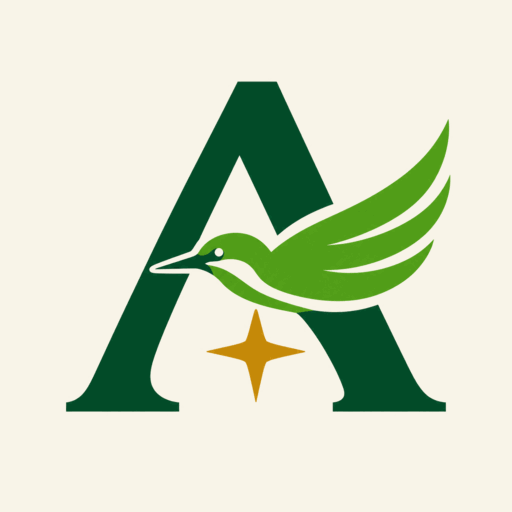
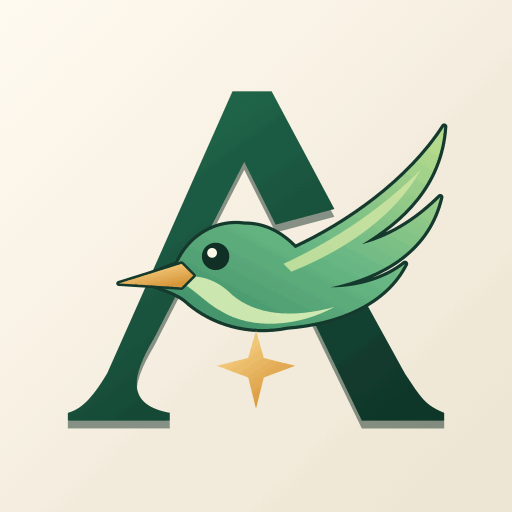
Refine the Aviandra bird mark and stack monthly observation methods

Changed region(s): [[0.125, 0.1562, 0.9062, 0.8438], [0.625, 0.7188, 0.875, 0.8438], [0.625, 0.6562, 0.6562, 0.7188]]

diff --git a/src/features/home/view.js b/src/features/home/view.js
@@ -24,9 +24,14 @@ import { windMarkup, weatherPlace, weatherPlaceMarkup, noLocationText } from './
 import { resolveLocation, setManualLocation } from '../../services/location.js';
 import { openPinPicker } from '../sightings/pinPicker.js';
 import { loadPlaces } from '../../data/places.js';
-import { speciesTally } from '../sightings/evidence.js';
+import { OBSERVATION_METHODS, speciesTally } from '../sightings/evidence.js';
 
 // ── Constanten ─────────────────────────────────────────────
+const MONTHLY_METHODS = [
+  ['seen', 'Alleen gezien'],
+  ['heard', 'Alleen gehoord'],
+  ['both', OBSERVATION_METHODS.both],
+];
 // GPS-01: geen standaardstad meer (was Amsterdam). Weer en zon gebruiken één gedeelde locatiebepaling.
 const WEATHER_TTL_MS = 15 * 60 * 1000;     // zelfde ± 1 km-cel binnen 15 min: geen nieuw weerverzoek
 const RELOCATE_AFTER_MS = 10 * 60 * 1000;  // na hervatten van de app: locatie en weer opnieuw controleren
@@ -710,12 +715,14 @@ async function loadMonthlyChart(el, ctx) {
 
     // Bouw bucket: laatste 12 maanden
     const now    = new Date();
-    const months = [];
+    const monthsByKey = new Map();
     for (let i = 11; i >= 0; i--) {
       const d = new Date(now.getFullYear(), now.getMonth() - i, 1);
-      months.push({
-        key:   `${d.getFullYear()}-${String(d.getMonth() + 1).padStart(2, '0')}`,
+      const key = `${d.getFullYear()}-${String(d.getMonth() + 1).padStart(2, '0')}`;
+      monthsByKey.set(key, {
         label: d.toLocaleDateString('nl-NL', { month: 'short' }),
+        name: d.toLocaleDateString('nl-NL', { month: 'long', year: 'numeric' }),
+        methods: { seen: 0, heard: 0, both: 0, unrecorded: 0 },
         count: 0,
       });
     }
@@ -723,10 +730,14 @@ async function loadMonthlyChart(el, ctx) {
     for (const s of sightings) {
       if (!s.date) continue;
       const key = s.date.slice(0, 7); // "YYYY-MM"
-      const bucket = months.find(m => m.key === key);
-      if (bucket) bucket.count++;
+      const bucket = monthsByKey.get(key);
+      if (!bucket) continue;
+      const method = Object.hasOwn(OBSERVATION_METHODS, s.observationMethod) ? s.observationMethod : 'unrecorded';
+      bucket.methods[method]++;
+      bucket.count++;
     }
 
+    const months = [...monthsByKey.values()];
     const maxCount = Math.max(...months.map(m => m.count));
 
     // Lege staat: geen sightings überhaupt, of alle buiten het 12-maands venster
@@ -737,6 +748,10 @@ async function loadMonthlyChart(el, ctx) {
       if (loader) loader.outerHTML = `<div class="chart-empty">${msg}</div>`;
       return;
     }
+
+    const methods = months.some(month => month.methods.unrecorded)
+      ? [...MONTHLY_METHODS, ['unrecorded', 'Niet vastgelegd']]
+      : MONTHLY_METHODS;
 
     // SVG-afmetingen — PAD_T = 14 geeft ruimte voor count-labels boven hoogste balk
     const W = 320, H = 130, PAD_L = 26, PAD_B = 20, PAD_T = 14, PAD_R = 8;
@@ -762,13 +777,25 @@ async function loadMonthlyChart(el, ctx) {
 
     const barsSvg = months.map((m, i) => {
       const x      = PAD_L + i * barW;
+      const barX   = x + barGap / 2;
       const barH   = m.count === 0 ? 2 : Math.max(3, Math.round((m.count / maxCount) * chartH));
       const y      = PAD_T + chartH - barH;
       const isLast = i === months.length - 1;
       const labelX = x + barW / 2;
+      const block = `x="${barX}" y="${y}" width="${barNet}" height="${barH}" rx="2"`;
+      let bottom = PAD_T + chartH;
+      const segments = methods.filter(([method]) => m.methods[method]).map(([method]) => {
+        const height = barH * m.methods[method] / m.count;
+        bottom -= height;
+        return `<rect x="${barX}" y="${bottom}" width="${barNet}" height="${height}"
+                      class="chart-bar chart-method--${method}"/>`;
+      }).join('');
+      const label = methods.map(([method, title]) => `${title}: ${m.methods[method]}`).join(' · ');
       return `
-        <rect x="${x + barGap / 2}" y="${y}" width="${barNet}" height="${barH}"
-              rx="2" class="chart-bar${m.count === 0 ? ' chart-bar--zero' : ''}"/>
+        ${m.count
+          ? `<clipPath id="home-month-bar-${i}"><rect ${block}/></clipPath>
+             <g clip-path="url(#home-month-bar-${i})"><title>${m.name} · ${label}</title>${segments}</g>`
+          : `<rect ${block} class="chart-bar--zero"/>`}
         ${(i % 2 === 0 || isLast) ? `<text x="${labelX}" y="${H - 4}" class="chart-axis-x">${m.label}</text>` : ''}
         ${m.count > 0 ? `<text x="${labelX}" y="${y - 3}" class="chart-value">${m.count}</text>` : ''}
       `;
@@ -784,8 +811,22 @@ async function loadMonthlyChart(el, ctx) {
       </svg>
     `;
 
+    const legend = `<ul class="chart-key" aria-label="Waarnemingswijzen">${methods.map(([method, label]) =>
+      `<li><span class="chart-key__swatch chart-method--${method}" aria-hidden="true"></span>${label}</li>`
+    ).join('')}</ul>`;
+    const counts = `<details class="chart-counts">
+      <summary>Bekijk aantallen per maand</summary>
+      <table aria-label="Aantallen per waarnemingswijze en maand">
+        <thead><tr><th scope="col">Maand</th>${methods.map(([, label]) =>
+          `<th scope="col">${label}</th>`).join('')}</tr></thead>
+        <tbody>${[...months].reverse().map(month =>
+          `<tr><th scope="row">${month.name}</th>${methods.map(([method]) =>
+            `<td>${month.methods[method]}</td>`).join('')}</tr>`).join('')}</tbody>
+      </table>
+    </details>`;
+
     if (ctx.destroyed) return;
-    if (loader) loader.outerHTML = `<div class="chart-wrap">${svg}</div>`;
+    if (loader) loader.outerHTML = `<div class="chart-wrap">${svg}${legend}${counts}</div>`;
 
   } catch (_) {
     if (ctx.destroyed) return;

diff --git a/styles/dashboard.css b/styles/dashboard.css
@@ -461,14 +461,69 @@
 }
 
 .chart-bar {
-  fill: var(--brand-light);
-  opacity: .85;
-  transition: opacity .15s;
+  fill: currentColor;
 }
+
+.chart-method--seen { color: #51d7a2; }
+.chart-method--heard { color: #8cc6ff; }
+.chart-method--both { color: #f3c777; }
+.chart-method--unrecorded { color: #b7bfb7; }
 
 .chart-bar--zero {
   fill: var(--muted);
   opacity: .25;
+}
+
+.chart-key {
+  display: flex;
+  flex-wrap: wrap;
+  gap: 6px 14px;
+  list-style: none;
+  padding: 0;
+  margin: 4px 0 2px;
+  color: #f5eee2;
+  font-size: .75rem;
+}
+
+.chart-key li {
+  display: inline-flex;
+  align-items: center;
+  gap: 6px;
+}
+
+.chart-key__swatch {
+  width: 10px;
+  height: 10px;
+  border-radius: 2px;
+  background: currentColor;
+}
+
+.chart-counts {
+  color: #f5eee2;
+  font-size: .75rem;
+}
+
+.chart-counts summary {
+  cursor: pointer;
+  align-content: center;
+  min-height: 44px;
+}
+
+.chart-counts table {
+  width: 100%;
+  border-collapse: collapse;
+  text-align: center;
+}
+
+.chart-counts th,
+.chart-counts td {
+  padding: 6px 3px;
+  border-top: 1px solid #638378;
+  overflow-wrap: anywhere;
+}
+
+.chart-counts th:first-child {
+  text-align: start;
 }
 
 .chart-grid {

diff --git a/index.html b/index.html
@@ -8,8 +8,8 @@
   <meta name="apple-mobile-web-app-status-bar-style" content="black-translucent">
   <meta name="theme-color" content="#17382C">
   <link rel="manifest" href="manifest.webmanifest" crossorigin="use-credentials">
-  <link rel="icon" type="image/png" sizes="192x192" href="icons/icon-192.png">
-  <link rel="apple-touch-icon" href="icons/icon-192.png">
+  <link rel="icon" type="image/png" sizes="192x192" href="icons/icon-192.png?v=3">
+  <link rel="apple-touch-icon" href="icons/icon-192.png?v=3">
   <title>Aviandra</title>
 
   <!-- Tokens -->

diff --git a/sw.js b/sw.js
@@ -12,7 +12,7 @@
  *   birdspot-media           — foto's/IDB-exports (permanent)
  */
 
-const APP_VERSION = '1.27.50';
+const APP_VERSION = '1.27.51';
 const APP_CACHE   = `birdspot-app-v${APP_VERSION}`;
 const MEDIA_CACHE = 'birdspot-media';
 

diff --git a/tests/test_mobile_editorial.py b/tests/test_mobile_editorial.py
@@ -162,6 +162,11 @@ def main():
       p.locator('.nav-item[data-route="home"]').click()
       recent = p.locator('#recentList [data-home-sighting]')
       recent.wait_for()
+      chart = p.locator('#monthlySection')
+      chart.locator('.chart-wrap').wait_for()
+      assert chart.locator('svg .chart-bar').count() == 1
+      assert chart.locator('svg .chart-bar.chart-method--heard').count() == 1
+      assert chart.get_by_text('Niet vastgelegd').count() == 0
       check_home_spacing()
       recent.click()
       p.locator('#detailSightingSheet').wait_for()
@@ -175,6 +180,40 @@ def main():
       assert p.locator('#sightMethodGroup input[value="seen"]').is_checked()
       p.locator('#addSheetCancel').click()
 
+      p.evaluate("""async date => {
+        const { addSightings } = await import('/src/data/sightings.js');
+        const [year, month] = date.split('-').map(Number);
+        const previous = new Date(year, month - 2, 15);
+        const previousDate = previous.getFullYear() + '-' +
+          String(previous.getMonth() + 1).padStart(2, '0') + '-15';
+        const observation = (id, method, when) => ({
+          id: 'monthly-fixture-' + id, speciesId: 'sp002', speciesName: 'Houtduif',
+          observationMethod: method, date: when, count: 4,
+        });
+        await addSightings([
+          observation(1, 'seen', date), observation(2, 'both', date),
+          observation(3, 'both', date), observation(4, null, date),
+          observation(5, 'heard', previousDate), observation(6, 'seen', '2000-01-15'),
+        ]);
+      }""", rows[0]['date'])
+      p.locator('.nav-item[data-route="species"]').click()
+      p.locator('.nav-item[data-route="home"]').click()
+      chart.locator('.chart-key').wait_for()
+      stack = chart.locator('svg g[clip-path]').last.locator('rect')
+      assert stack.count() == 4
+      assert len(set(stack.evaluate_all("segments => segments.map(el => getComputedStyle(el).fill)"))) == 4
+      heights = stack.evaluate_all("segments => segments.map(el => Number(el.getAttribute('height')))")
+      assert heights[0] == heights[1] == heights[3] and heights[2] == heights[0] * 2, heights
+      chart.locator('summary').click()
+      assert chart.locator('tbody tr').count() == 12
+      assert chart.locator('tbody tr').nth(0).locator('td').all_text_contents() == ['1', '1', '2', '1']
+      assert chart.locator('tbody tr').nth(1).locator('td').all_text_contents() == ['0', '1', '0', '0']
+      for width in (320, 390):
+        p.set_viewport_size({"width":width,"height":844})
+        assert chart.locator('.chart-wrap').evaluate('el => el.scrollWidth <= el.clientWidth')
+      chart.locator('summary').click()
+      chart.screenshot(path=str(SHOTS/'mobile_monthly_observation_methods_390.png'), animations='disabled')
+
       p.locator('.nav-item[data-route="species"]').click()
 
       # Final page should not be wider than mobile viewport.
@@ -183,7 +222,7 @@ def main():
         assert p.locator('.signature-species-hero').is_visible()
         assert p.evaluate("() => document.documentElement.scrollWidth<=window.innerWidth+2"),width
       assert not errors,errors
-      print("PASS: local photo of the day, informational species guide, mobile form bounds, ambient pause")
+      print("PASS: daily photo, mobile form, ambient pause and stacked monthly methods")
       context.close();browser.close()
     srv.shutdown()
 if __name__=='__main__':main()

diff --git a/tests/test_mobile_owner_review.py b/tests/test_mobile_owner_review.py
@@ -1,5 +1,6 @@
 """Reproduce the Home image and the field guide contrast review in Chromium."""
 import threading
+from datetime import datetime
 
 from playwright.sync_api import expect, sync_playwright
 
@@ -141,11 +142,12 @@ def main():
         assert len({icon for _, icon in catalogue['habitats']}) == 14, catalogue
         print(f"Gidsbrede controle geslaagd: {catalogue['species']} soorten, "
               f"{catalogue['missing']} zonder gidsfoto en 14 verschillende leefgebiediconen.")
-        page.evaluate("""async () => {
-          const { FEATURED_BIRDS, POSITION_KEY } = await import('/src/features/home/specialBirds.js');
-          const index = FEATURED_BIRDS.findIndex(b => b.nl === 'Wielewaal');
-          localStorage.setItem(POSITION_KEY, JSON.stringify({ index, elapsed: 0 }));
+        oriole_day = page.evaluate("""async () => {
+          const { FEATURED_BIRDS, featuredBirdForDate } = await import('/src/features/home/specialBirds.js');
+          const days = FEATURED_BIRDS.map((_, i) => new Date(2026, 10, 1 + i, 12));
+          return days.find(day => featuredBirdForDate(day)?.nl === 'Wielewaal').getTime();
         }""")
+        page.clock.set_fixed_time(datetime.fromtimestamp(oriole_day / 1000).astimezone())
         page.reload(wait_until='domcontentloaded')
         page.locator('#birdspotSplash').wait_for(state='detached', timeout=15000)
         hero = page.locator('#slideshow')

diff --git a/tests/test_cinematic_wetland.py b/tests/test_cinematic_wetland.py
@@ -110,7 +110,7 @@ def main():
    ]:
     weather.update(overrides)
     page.reload(wait_until="domcontentloaded")
-    assert page.locator('#birdspotSplash').count()==0
+    page.locator('#birdspotSplashSkip').click()
     weather_tip.get_by_text(expected, exact=False).wait_for()
     assert weather_tip.locator('li').count() <= 2
     if weather['weather_code'] == 95:
@@ -118,7 +118,7 @@ def main():
    page.unroute(weather_url)
    page.route(weather_url, lambda route: route.abort())
    page.reload(wait_until="domcontentloaded")
-   assert page.locator('#birdspotSplash').count()==0
+   page.locator('#birdspotSplashSkip').click()
    page.get_by_text('Weer niet beschikbaar', exact=True).wait_for()
    assert weather_tip.count()==0
    page.locator('.nav-item[data-route="species"]').click()

diff --git a/README.md b/README.md
@@ -5,6 +5,10 @@ Handbook. Kickoff-baseline per App Kickoff Gate (Handbook §1.3); vastgelegd
 retroactief, na reeds afgeronde en nog openstaande featurewerk, zodat de
 baseline alsnog klopt met de werkelijke stand van de app.
 
+## Aviandra 1.27.51 · vogelmerk en maandgrafiek (28 november 2026)
+
+Het logo in Home en het installatie-icoon gebruiken hetzelfde vogelprofiel met kop, snavel, oog en subtiel reliëf. De grafiek op Home stapelt per maand Alleen gezien, Alleen gehoord en Gezien en gehoord. Bij oudere records zonder vastgelegde wijze blijft het aantal zichtbaar in grijs. Onder de legenda staan de exacte aantallen per maand. [Concept-PR #392](https://github.com/saddamsmit-source/Birdspot-Library/pull/392).
+
 ## Aviandra 1.27.50 · foto van de dag en ijsvogelintro (28 november 2026)
 
 Home toont één van de 100 foto's per lokale kalenderdag, ook na opnieuw openen. Als je de foto vergroot of de informatie leest, blijft die open tot je klaar bent.
